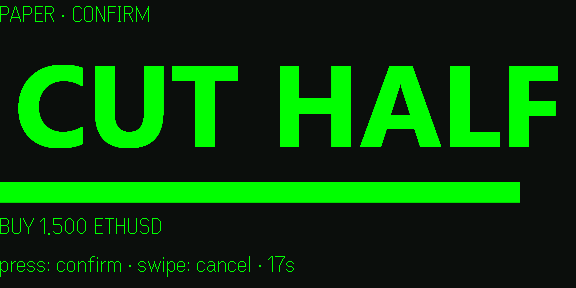
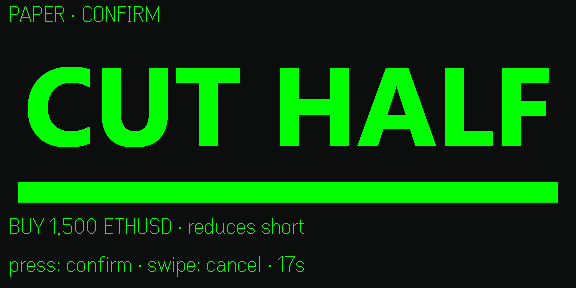
Glasses: 10px margins, centred 540px gauge, any-swipe cycling, intent line on confirm, simulator-only verification wording; recaptured screens

diff --git a/glasses/src/model.test.ts b/glasses/src/model.test.ts
@@ -2,7 +2,7 @@ import { test } from 'node:test'
 import assert from 'node:assert/strict'
 import {
   type AppEvent, type AppState, buildScreen, formatUsdWhole, gaugeText, initialState, INPUT_DEBOUNCE_MS, MIN_CONFIRM_MS,
-  type Proposal, type Snapshot, STALE_AFTER_MS, update,
+  orderLine, type Proposal, type Snapshot, STALE_AFTER_MS, update,
 } from './model.ts'
 import { emptyGauge, filledCells, GAUGE_CELLS, gaugeString, stepGauge } from './gauge.ts'
 
@@ -35,7 +35,7 @@ const proposal = (shownAt: number): Proposal => ({
 test('gauge: fills, never shows empty once anything is used, full only at the limit', () => {
   assert.equal(filledCells(0), 0)
   assert.equal(filledCells(0.001), 1)
-  assert.equal(filledCells(0.5), GAUGE_CELLS / 2)
+  assert.equal(filledCells(0.5), Math.round(GAUGE_CELLS / 2))
   assert.equal(filledCells(0.999), GAUGE_CELLS - 1)
   assert.equal(filledCells(1), GAUGE_CELLS)
   assert.equal(filledCells(7), GAUGE_CELLS)
@@ -172,20 +172,43 @@ test('no actions can start while offline or without prices', () => {
 
 // ------------------------------------------------------------------ input and the action flow
 
-test('press opens the menu in CALM and CLOSING; swipes cycle cut half, cut all, dismiss', () => {
+test('press opens the menu in CALM and CLOSING; ANY swipe advances through cut half, cut all, dismiss', () => {
   for (const sn of [snap(), closing()]) {
-    let s = ready(sn)
-    s = update(s, { type: 'press', at: T + 1000 }).state
-    assert.deepEqual(s.menu, { open: true, index: 0 })
-    s = update(s, { type: 'swipe', dir: 'down', at: T + 2000 }).state
-    assert.equal(buildScreen(s, T + 2000).sub.includes('■ CUT ALL?'), true)
-    s = update(s, { type: 'swipe', dir: 'down', at: T + 3000 }).state
-    assert.equal(buildScreen(s, T + 3000).sub.includes('■ DISMISS?'), true)
-    s = update(s, { type: 'swipe', dir: 'down', at: T + 4000 }).state
-    assert.equal(s.menu.index, 0, 'wraps around')
-    s = update(s, { type: 'swipe', dir: 'up', at: T + 5000 }).state
-    assert.equal(s.menu.index, 2, 'swipe up goes back')
+    for (const dirs of [['down', 'down', 'down'], ['up', 'up', 'up'], ['up', 'down', 'up']] as const) {
+      let s = ready(sn)
+      s = update(s, { type: 'press', at: T + 1000 }).state
+      assert.deepEqual(s.menu, { open: true, index: 0 })
+      const seen: number[] = []
+      dirs.forEach((dir, i) => {
+        s = update(s, { type: 'swipe', dir, at: T + 2000 + i * 1000 }).state
+        seen.push(s.menu.index)
+      })
+      assert.deepEqual(seen, [1, 2, 0], 'direction does not matter and the cycle wraps')
+    }
   }
+})
+
+test('swipe direction can never select or confirm anything, only move the highlight or cancel', () => {
+  let s = ready(tripped())
+  for (const dir of ['up', 'down'] as const) {
+    const u = update(s, { type: 'swipe', dir, at: T + 5000 })
+    assert.deepEqual(u.effects, [])
+    s = { ...u.state, lastInputAt: -Infinity }
+  }
+})
+
+test('confirm line states the intent: which side, what it reduces', () => {
+  assert.equal(orderLine([{ symbol: 'ETHUSD', side: 'Buy', qty: '1.500' }]), 'BUY 1.500 ETHUSD · reduces short')
+  assert.equal(orderLine([{ symbol: 'ETHUSD', side: 'Sell', qty: '1.000' }]), 'SELL 1.000 ETHUSD · reduces long')
+  assert.equal(
+    orderLine([{ symbol: 'ETHUSD', side: 'Sell', qty: '1.000' }, { symbol: 'BTCUSD', side: 'Buy', qty: '0.1000' }]),
+    'SELL 1.000 ETHUSD · reduces long (+1 more)',
+  )
+  assert.equal(orderLine([]), '')
+  let s = ready(tripped())
+  s = update(s, { type: 'press', at: T + 1000 }).state
+  s = update(s, { type: 'proposal', proposal: proposal(T + 1500) }).state
+  assert.equal(buildScreen(s, T + 1600).sub, 'SELL 1.000 ETHUSD · reduces long')
 })
 
 test('swipes on a closed menu do nothing; bursts of swipes within the debounce count once', () => {

diff --git a/glasses/src/model.ts b/glasses/src/model.ts
@@ -138,8 +138,10 @@ export function update(prev: AppState, ev: AppEvent): Update {
       const base = { ...prev, lastInputAt: ev.at }
       if (prev.pending) return noop({ ...base, pending: null, notice: null }) // swipe cancels the confirm step
       if (!prev.menu.open) return noop(base)
-      const step = ev.dir === 'down' ? 1 : -1
-      const index = (prev.menu.index + step + MENU.length) % MENU.length
+      // Direction is deliberately ignored: how the glasses map scroll events to swipe up/down is not
+      // documented and not verified on hardware, so ANY swipe advances to the next option. Every
+      // option is reachable in at most two swipes, and a wrong guess cannot select anything.
+      const index = (prev.menu.index + 1) % MENU.length
       return noop({ ...base, menu: { open: true, index } })
     }
 
@@ -231,6 +233,16 @@ function menuLine(index: number): string {
   return MENU.map((k, i) => (i === index ? `■ ${label(k).toUpperCase()}?` : `□ ${label(k)}`)).join('   ')
 }
 
+/** e.g. "BUY 1.500 ETHUSD · reduces short". A reduce-only Buy closes part of a short; a Sell, a long. */
+export function orderLine(orders: Proposal['orders']): string {
+  const first = orders[0]
+  if (!first) return ''
+  const side = first.side === 'Sell' ? 'SELL' : 'BUY'
+  const reduces = first.side === 'Sell' ? 'long' : 'short'
+  const more = orders.length > 1 ? ` (+${orders.length - 1} more)` : ''
+  return `${side} ${first.qty} ${first.symbol} · reduces ${reduces}${more}`
+}
+
 const stateWord = (s: Snapshot): string => (s.state === 'NO_LIMIT' ? 'NO LIMIT' : s.state === 'CLOSING' ? 'CLOSING IN' : s.state)
 
 export function buildScreen(s: AppState, now: number): Screen {
@@ -274,7 +286,7 @@ export function buildScreen(s: AppState, now: number): Screen {
   const tripped = snap.state === 'TRIPPED'
 
   if (s.pending) {
-    const o = s.pending.orders.map((x) => `${x.side === 'Sell' ? 'SELL' : 'BUY'} ${x.qty} ${x.symbol}`).join(' + ')
+    const o = orderLine(s.pending.orders)
     const secs = Math.max(0, Math.ceil((s.pending.expiresAt - now) / 1000))
     return {
       kind: 'confirm',

diff --git a/glasses/src/render.ts b/glasses/src/render.ts
@@ -21,6 +21,12 @@ export interface Frame {
   hint: string
 }
 
+/** Safe margin on the left and right of every text line, in px. */
+const MARGIN = 10
+/** The gauge is 27 cells x 20 px = 540 px wide, centred: 18 px margin each side. */
+const GAUGE_W = 540
+const GAUGE_X = (576 - GAUGE_W) / 2
+
 const nonEmpty = (s: string): string => (s.length > 0 ? s : ' ')
 
 export class Renderer {
@@ -35,9 +41,9 @@ export class Renderer {
   }
 
   async init(first: Frame): Promise<boolean> {
-    const text = (id: number, name: string, y: number, h: number, content: string, capture = 0) =>
+    const text = (id: number, name: string, y: number, h: number, content: string, capture = 0, x = MARGIN, w = 576 - 2 * MARGIN) =>
       new TextContainerProperty({
-        xPosition: 0, yPosition: y, width: 576, height: h, borderWidth: 0, borderColor: 0, paddingLength: 0,
+        xPosition: x, yPosition: y, width: w, height: h, borderWidth: 0, borderColor: 0, paddingLength: 0,
         containerID: id, containerName: name, content: nonEmpty(content), isEventCapture: capture,
       })
     const img = (id: number, name: string, x: number) =>
@@ -47,7 +53,7 @@ export class Renderer {
       containerTotalNum: 6,
       textObject: [
         text(ID.status, NAME.status, 0, 34, first.status),
-        text(ID.gauge, NAME.gauge, 178, 34, first.gauge),
+        text(ID.gauge, NAME.gauge, 178, 34, first.gauge, 0, GAUGE_X, GAUGE_W),
         text(ID.sub, NAME.sub, 212, 38, first.sub),
         text(ID.hint, NAME.hint, 250, 38, first.hint, 1),
       ],

diff --git a/glasses/src/main.ts b/glasses/src/main.ts
@@ -164,7 +164,23 @@ bridge.onEvenHubEvent((event) => {
 
 // -------------------------------------------------------------------- boot
 
-if (!CONFIGURED) {
+// Development aid only (stripped from production builds): `?preview=offline|prices|loading` renders
+// that screen through the real renderer without touching the backend, to capture non-live screens.
+const preview = import.meta.env.DEV ? new URLSearchParams(location.search).get('preview') : null
+
+if (preview) {
+  const fixtures: Record<string, () => void> = {
+    loading: () => {},
+    offline: () => {
+      state = { ...initialState(), phase: 'ready', problem: { kind: 'offline', since: 0 } }
+    },
+    prices: () => {
+      state = { ...initialState(), phase: 'ready', problem: { kind: 'prices', since: 0 } }
+    },
+  }
+  fixtures[preview]?.()
+  await renderer.init(toFrame(buildScreen(state, Date.now()), Date.now()))
+} else if (!CONFIGURED) {
   const frame = { status: 'PAPER', big: 'NOT CONFIGURED', gauge: '', sub: 'This build has no backend address.', hint: '' }
   await renderer.init(frame)
 } else {

diff --git a/glasses/src/gauge.ts b/glasses/src/gauge.ts
@@ -1,7 +1,8 @@
 // The gauge line: filled cells (full blocks) then a thin track. Text only, so a redraw
 // costs a few dozen bytes over BLE; no image has to be re-sent while it animates.
 
-export const GAUGE_CELLS = 26;
+/** 27 cells x 20 px = 540 px: centred with an 18 px margin each side on the 576 px display. */
+export const GAUGE_CELLS = 27;
 const FILLED = '█'; // full block, present in the glasses font
 const EMPTY = '━'; // heavy horizontal line, present in the glasses font
 

diff --git a/glasses/src/canvas.ts b/glasses/src/canvas.ts
@@ -32,7 +32,7 @@ export async function renderBig(text: string): Promise<{ left: number[]; right: 
   const family = 'system-ui, -apple-system, "Segoe UI", Roboto, Arial, sans-serif'
   let size = 132
   g.font = `bold ${size}px ${family}`
-  const maxW = FULL_W - 28
+  const maxW = FULL_W - 48 // at least 24 px of margin on each side
   const w = g.measureText(text).width
   if (w > maxW) {
     size = Math.max(24, Math.floor((size * maxW) / w))

diff --git a/glasses/README.md b/glasses/README.md
@@ -14,9 +14,17 @@ says so.
 Also handled: not paired (6-digit pairing code), loading, offline (live numbers are replaced,
 never shown stale), prices unavailable, no limit set, no open positions, cooldown, writes off.
 
+## Verification status (read this first)
+
+**Tested in the official Even Hub simulator. Not yet verified on physical glasses.** Hardware-unverified:
+
+- **Swipe direction.** The SDK does not document how `SCROLL_TOP_EVENT` / `SCROLL_BOTTOM_EVENT` map to swipe up / swipe down. The app therefore ignores direction: any swipe advances to the next option, and a swipe on the confirm screen only cancels, so a wrong guess cannot select or confirm anything.
+- **BLE timing.** How fast the images and text updates reach real glasses, and how the pulse and gauge animation look, have not been measured. Updates are coalesced and only changed containers are sent.
+- Font rendering and exact text widths (the simulator's fonts differ from the hardware's), and the microphone PCM format on hardware.
+
 ## Controls
 
-- **Swipe up / down**: cycle cut half / cut all / dismiss.
+- **Swipe (either direction)**: advance through cut half / cut all / dismiss.
 - **Press**: open the action menu; select; confirm.
 - A confirm step always follows (20 s to answer, a press in the first 0.9 s is ignored as a
   stray press), and the server enforces a 60 s cooldown and the kill switch.
